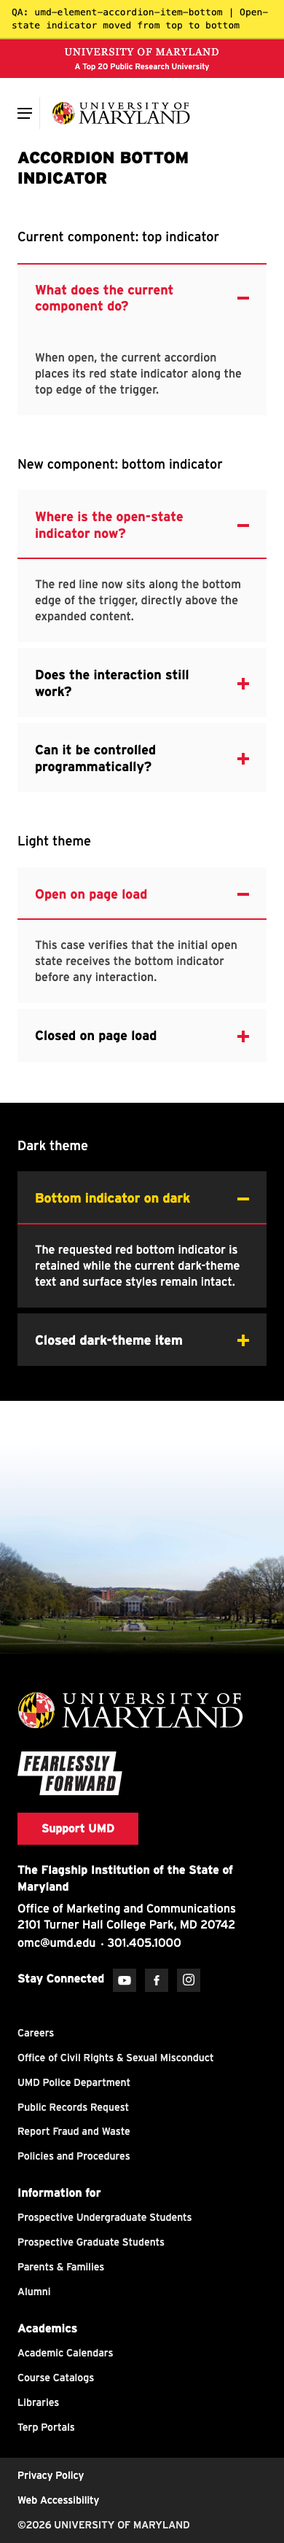
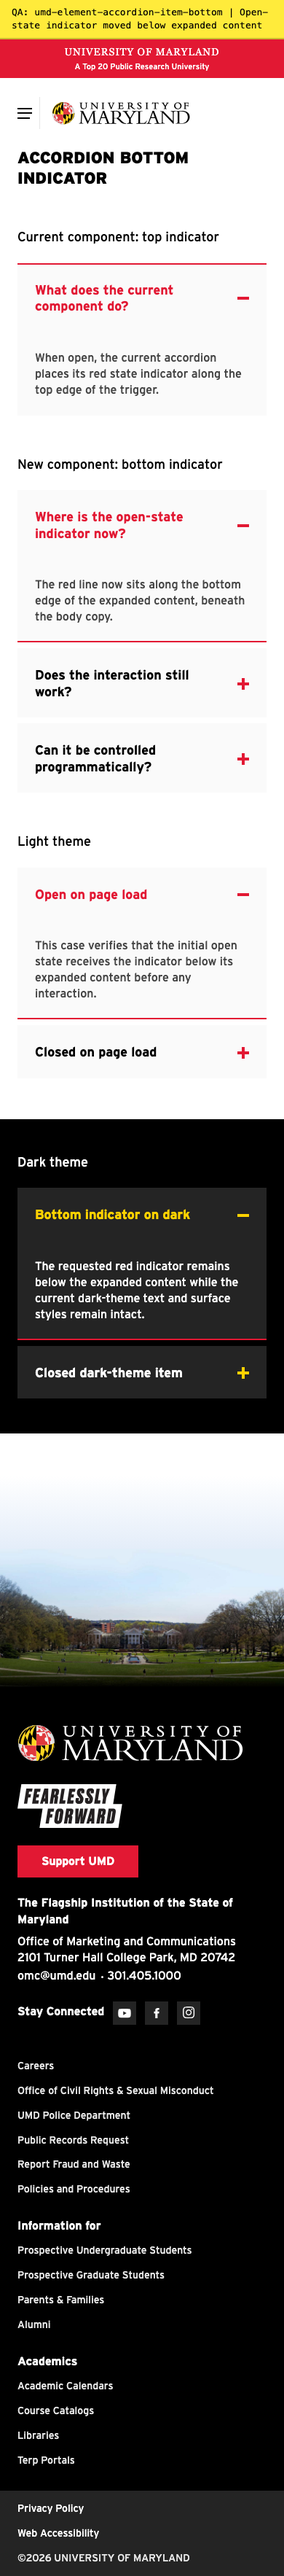
Move accordion indicator below expanded content

diff --git a/qa/accordion-bottom.html b/qa/accordion-bottom.html
@@ -545,7 +545,7 @@
 </head>
 <body>
   <div style="background:#ffeb3b;color:#000;padding:8px 16px;font:13px/1.4 monospace;border-bottom:2px solid rgba(0,0,0,.2);position:sticky;top:0;z-index:9999;">
-    QA: umd-element-accordion-item-bottom | Open-state indicator moved from top to bottom
+    QA: umd-element-accordion-item-bottom | Open-state indicator moved below expanded content
   </div>
 
   <umd-element-navigation-utility data-alert-off="true" role="navigation" aria-label="Utility navigation"></umd-element-navigation-utility>
@@ -584,7 +584,7 @@
           <span slot="eyebrow">Component QA</span>
           <h1 slot="headline">Accordion bottom indicator</h1>
           <div slot="text">
-            <p>The new component preserves the current UMD accordion behavior and moves the two-pixel red open-state line from the top edge of the trigger to its bottom edge.</p>
+            <p>The new component preserves the current UMD accordion behavior and moves the two-pixel red open-state line from the top edge of the trigger to the bottom of the expanded content.</p>
           </div>
         </umd-element-section-intro-wide>
       </div>
@@ -611,7 +611,7 @@
           <umd-element-accordion-item-bottom data-visual-open="true">
             <p slot="headline">Where is the open-state indicator now?</p>
             <div slot="text">
-              <p>The red line now sits along the bottom edge of the trigger, directly above the expanded content.</p>
+              <p>The red line now sits along the bottom edge of the expanded content, beneath the body copy.</p>
             </div>
           </umd-element-accordion-item-bottom>
           <umd-element-accordion-item-bottom>
@@ -637,13 +637,13 @@
           <umd-element-accordion-item-bottom data-theme="light" data-visual-open="true">
             <p slot="headline">Open on page load</p>
             <div slot="text">
-              <p>This case verifies that the initial open state receives the bottom indicator before any interaction.</p>
+              <p>This case verifies that the initial open state receives the indicator below its expanded content before any interaction.</p>
             </div>
           </umd-element-accordion-item-bottom>
           <umd-element-accordion-item-bottom data-theme="light">
             <p slot="headline">Closed on page load</p>
             <div slot="text">
-              <p>This case verifies that the bottom indicator appears only after the item is expanded.</p>
+              <p>This case verifies that the content-bottom indicator appears only after the item is expanded.</p>
             </div>
           </umd-element-accordion-item-bottom>
         </div>
@@ -657,7 +657,7 @@
           <umd-element-accordion-item-bottom data-theme="dark" data-visual-open="true">
             <p slot="headline">Bottom indicator on dark</p>
             <div slot="text">
-              <p>The requested red bottom indicator is retained while the current dark-theme text and surface styles remain intact.</p>
+              <p>The requested red indicator remains below the expanded content while the current dark-theme text and surface styles remain intact.</p>
             </div>
           </umd-element-accordion-item-bottom>
           <umd-element-accordion-item-bottom data-theme="dark">

diff --git a/test/accordion-bottom.test.js b/test/accordion-bottom.test.js
@@ -19,9 +19,13 @@ test('registers the bottom-indicator accordion custom element', () => {
   assert.match(componentSource, /customElements\.define/);
 });
 
-test('moves only the expanded-state line to the bottom edge', () => {
+test('moves the expanded-state line below the expanded content', () => {
   assert.match(componentSource, /aria-expanded='true'/);
   assert.match(componentSource, /border-top-color: transparent/);
+  assert.match(
+    componentSource,
+    /aria-expanded='true'] \+ \.accordion-body-wrapper/,
+  );
   assert.match(componentSource, /inset 0 -2px 0 #e21833/);
 });
 
@@ -30,4 +34,3 @@ test('QA page includes current and new accordion comparisons', () => {
   assert.match(qaPage, /New component: bottom indicator/);
   assert.match(qaPage, /<umd-element-accordion-item-bottom/);
 });
-

diff --git a/src/accordion-bottom.js b/src/accordion-bottom.js
@@ -9,8 +9,12 @@ const bottomIndicatorStyles = `
   .accordion-headline[aria-expanded='true']:hover,
   .accordion-headline[aria-expanded='true']:focus {
     border-top-color: transparent !important;
+    box-shadow: none;
+    transition: background 0.5s, color 0.5s, padding 0.5s;
+  }
+
+  .accordion-headline[aria-expanded='true'] + .accordion-body-wrapper {
     box-shadow: inset 0 -2px 0 #e21833;
-    transition: background 0.5s, color 0.5s, padding 0.5s, box-shadow 0.5s;
   }
 `;
 

diff --git a/README.md b/README.md
@@ -3,7 +3,8 @@
 This project adds `umd-element-accordion-item-bottom`, a small variant of the
 current UMD `umd-element-accordion-item`. It keeps the existing slots,
 attributes, animation, keyboard behavior, and ARIA state, while moving the red
-open-state line from the top of the trigger to the bottom.
+open-state line from the top of the trigger to the bottom of the expanded
+content.
 
 ## Run the QA page
 
